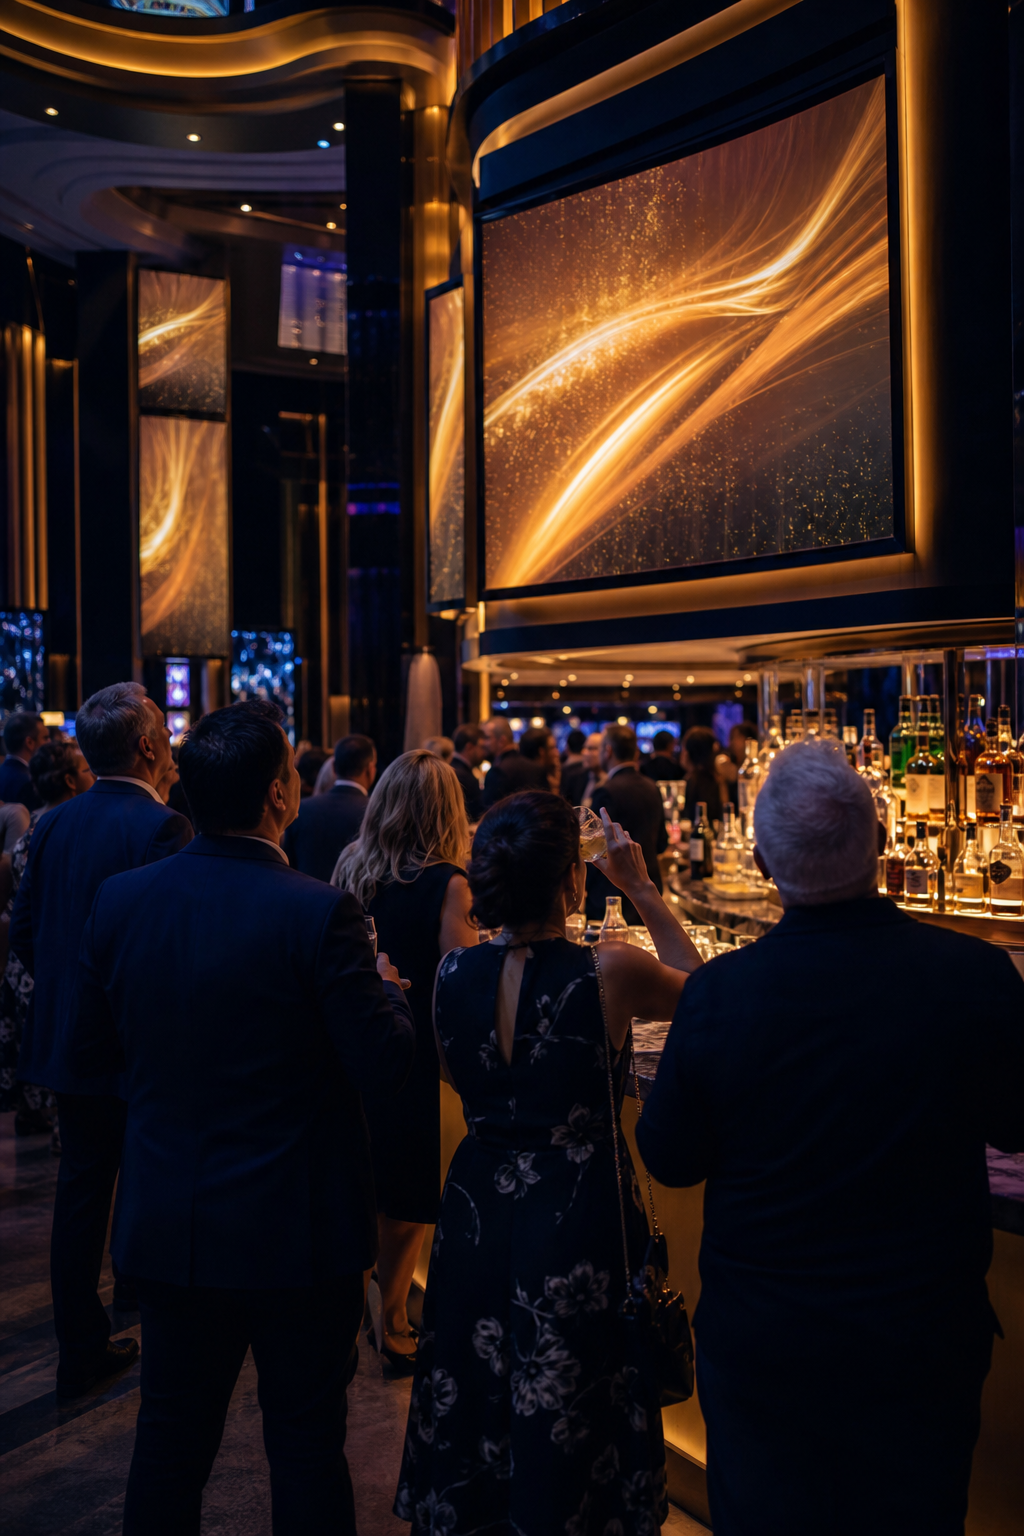
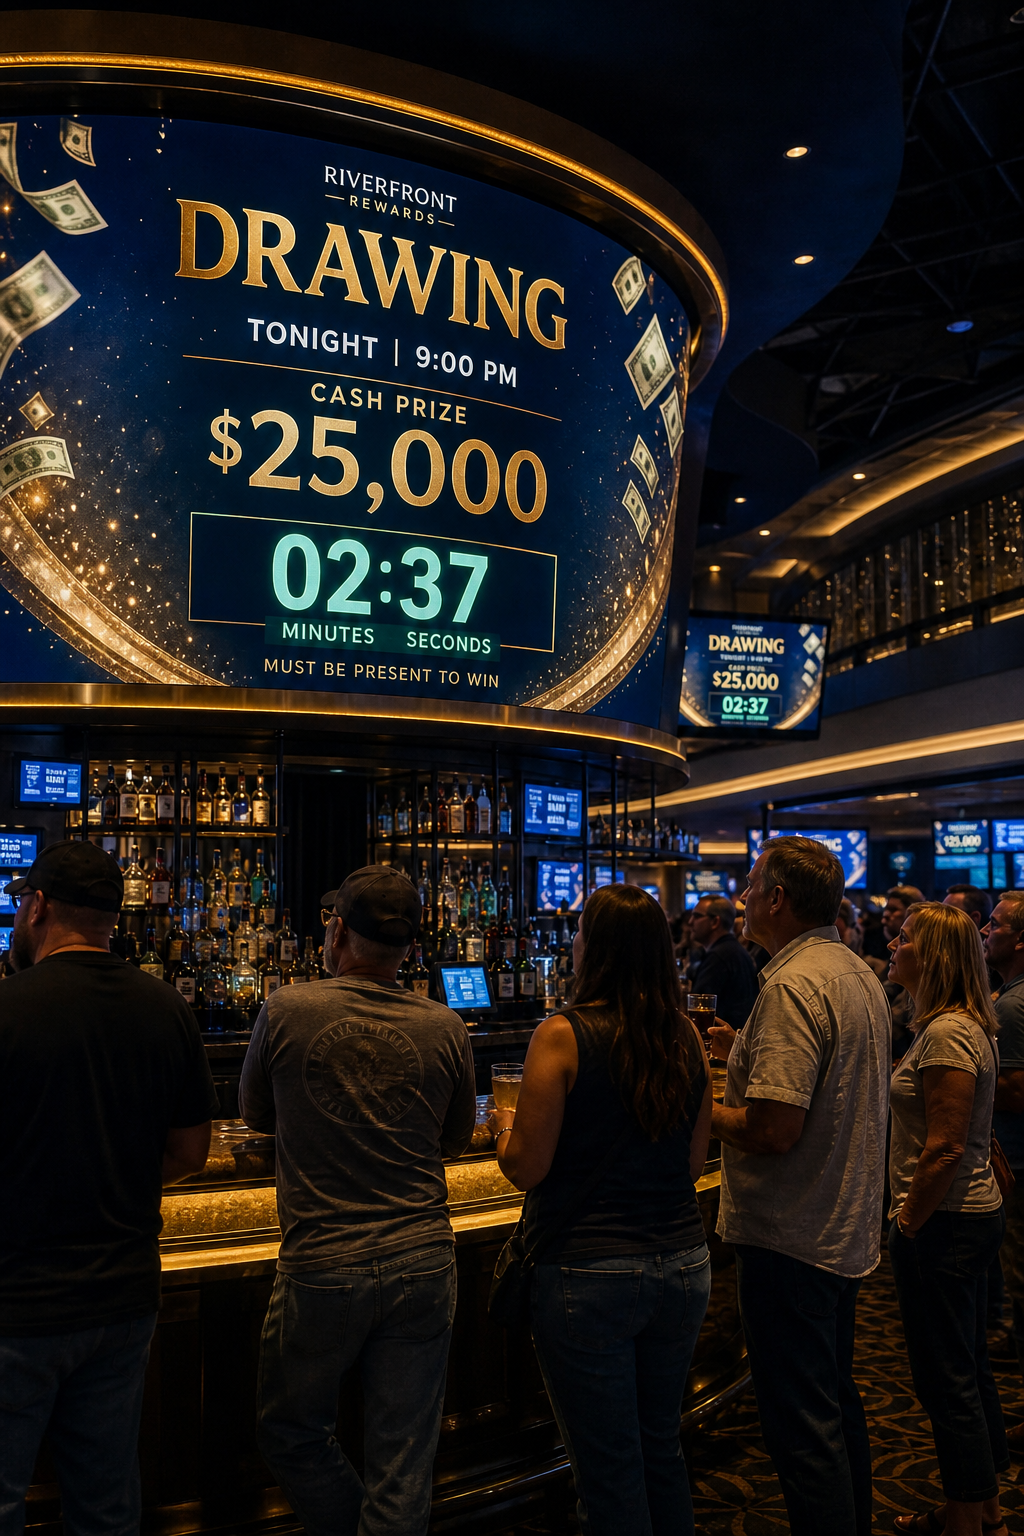
Casino capability cards: re-roll Revert-After-Timer with a drawing announcement
- Replace ambient on-screen content with a real casino promotional drawing
  announcement (DRAWING, 9:00 PM, $25,000 CASH PRIZE, countdown timer, MUST BE PRESENT TO WIN)
- Bump to ?v=2 to bust cache

diff --git a/src/data/industryDetails.ts b/src/data/industryDetails.ts
@@ -237,7 +237,7 @@ export const industryDetails: Partial<Record<IndustrySlug, IndustryDetail>> = {
         index: '05',
         title: 'Revert-After-Timer',
         trigger: 'A temporary takeover.',
-        image: '/images/industries/casino/capability-revert-after-timer.png?v=1',
+        image: '/images/industries/casino/capability-revert-after-timer.png?v=2',
         imageAlt: 'Guests pausing at a casino bar as the zone screens take over with a temporary promotional drawing moment',
         detail:
           'Trigger a preset for a drawing or announcement, set it to revert after a set time, and the floor snaps back to baseline automatically.',
